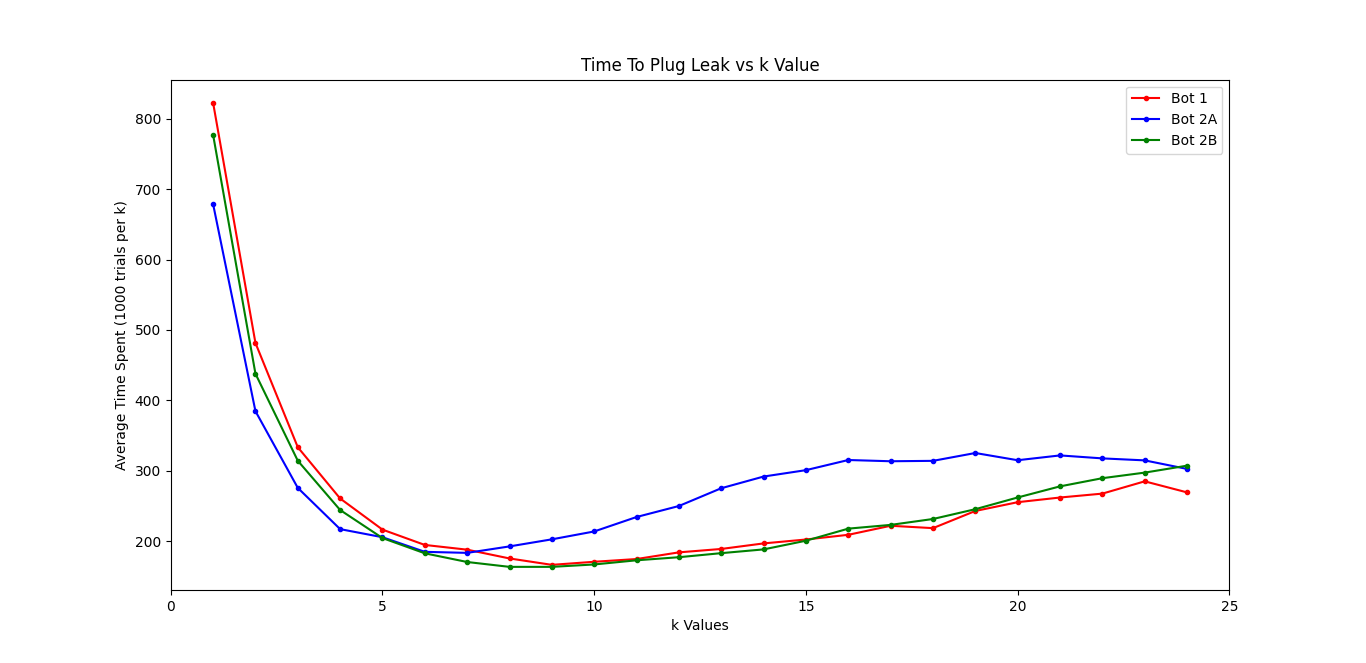
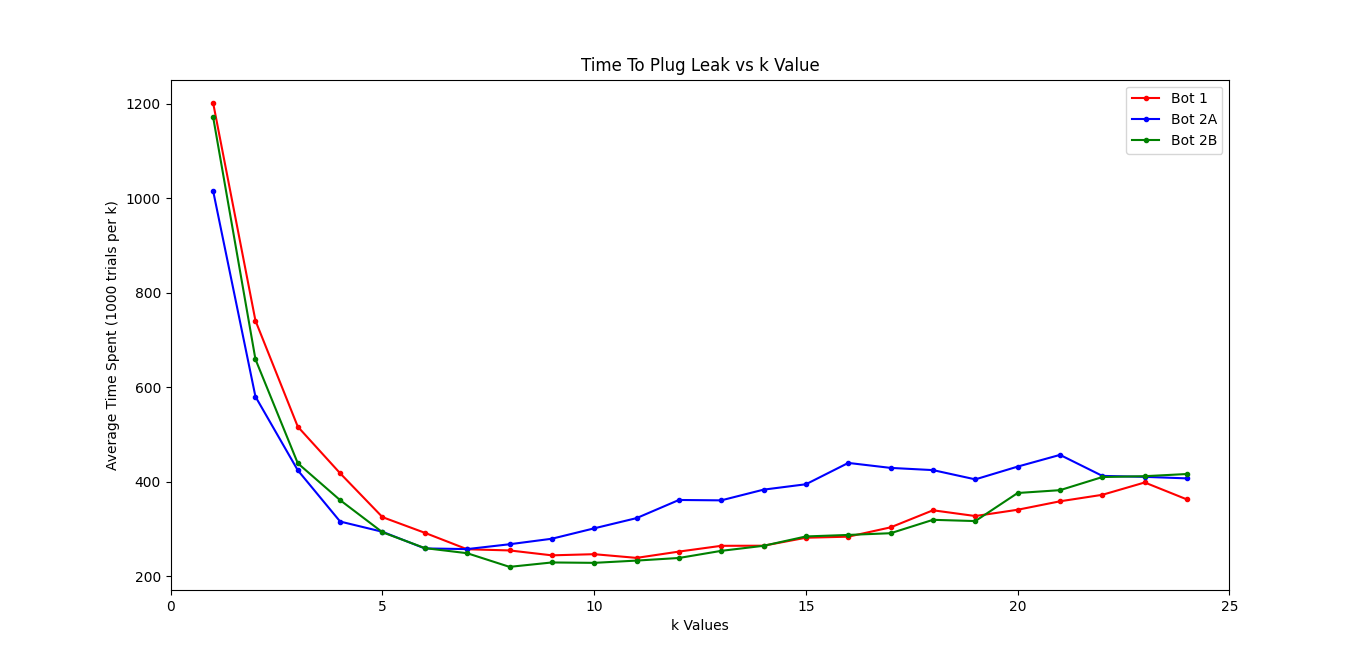
done till bot 5

diff --git a/Ship_Leak_Bot/data.py b/Ship_Leak_Bot/data.py
@@ -1,18 +1,24 @@
 import matplotlib.pyplot as plt
 
 k = [1, 2, 3, 4, 5, 6, 7, 8, 9, 10, 11, 12, 13, 14, 15, 16, 17, 18, 19, 20, 21, 22, 23, 24]
-# bot 1 (1000 trials)
-bot_1 = [822.757, 481.579, 333.466, 260.652, 216.405, 194.645, 187.924, 175.456, 166.381, 170.734, 174.633, 184.112,
-         188.95, 196.826, 202.362, 209.054, 221.891, 218.504, 242.906, 255.375, 262.015, 267.556, 285.004, 269.298]
-# bot 2A (1000 trials)
-bot_2A = [678.824, 384.7, 275.705, 217.113, 205.616, 184.854, 183.379, 192.574, 202.611, 213.805, 234.327, 249.958,
-          275.203, 291.806, 300.895, 315.295, 313.529, 314.102, 325.239, 314.988, 321.813, 317.6, 314.773, 302.628]
+# bot 1 (400 trials)
+bot_1 = [1202.34, 741.31, 516.82, 418.245, 325.4175, 292.2625, 257.4075, 254.975, 244.5675, 247.005, 239.19, 252.5,
+         264.7275, 264.97, 281.8275, 284.0625, 303.8225, 339.9175, 327.735, 341.0525, 358.94, 372.68, 398.7625,
+         362.8075]
+# bot 2A (400 trials)
+bot_2A = [1016.1375, 580.5225, 424.5875, 316.1025, 294.41, 259.1975, 257.795, 268.025, 279.7075, 301.7225, 323.3375,
+          361.7275, 360.9375, 383.61, 395.015, 440.1625, 429.615, 424.95, 405.3475, 432.3625, 457.1675, 412.7,
+          410.6975, 407.425]
 # bot 2B (1000 trials)
-bot_2B = [777.277, 437.939, 314.26, 244.281, 204.419, 182.763, 170.414, 163.508, 163.515, 166.93, 172.836, 177.225,
-          182.982, 188.322, 200.647, 217.813, 223.127, 231.511, 245.417, 262.06, 277.851, 289.468, 297.386, 307.263]
+bot_2B = [1172.58, 659.5575, 439.42, 361.365, 293.395, 259.905, 249.06, 220.18, 229.495, 228.6675, 233.4675, 238.9725,
+          254.0875, 264.775, 284.55, 287.755, 291.39, 319.735, 317.11, 376.505, 382.49, 410.27, 412.06, 416.69]
 # bot 2C (1000 trials)
-bot_2C = [680.598, 384.371, 280.197, 224.552, 200.658, 187.394, 169.148, 164.817, 162.795, 162.872, 169.095, 173.793,
-          183.787, 192.292, 205.603, 223.113, 223.237, 244.178, 250.876, 261.084, 280.824, 291.486, 293.989, 290.224]
+bot_2C = [1079.535, 600.05, 423.87, 351.795, 297.7575, 270.485, 250.61, 238.3775, 232.1225, 236.3025, 230.3075, 225.13,
+          260.245, 272.0275, 282.4975, 299.88, 298.3625, 308.775, 328.3525, 358.91, 364.72, 399.0725, 397.425, 403.975]
+# bot 5 (400 trials)
+bot_5 = [1514.6225, 953.7225, 706.9975, 558.475, 500.4475, 466.22, 456.4025, 466.305, 475.3025, 503.3625, 556.385,
+         601.1625, 625.875, 691.5125, 726.5425, 774.285, 798.34, 839.125, 907.085, 912.2425, 968.1475, 965.0125, 986.81,
+         915.1575]
 
 alpha = [0.01,0.02,0.03,0.04,0.05,0.06,0.07,0.08,0.09,0.1,0.11,0.12,0.13,0.14,0.15,0.16,0.17,0.18,0.19,0.2,0.21,0.22,
          0.23,0.24,0.25,0.26,0.27,0.28,0.29,0.3,0.31,0.32,0.33,0.34,0.35,0.36,0.37,0.38,0.39,0.4,0.41,0.42,0.43,0.44,

diff --git a/Ship_Leak_Bot/main.py b/Ship_Leak_Bot/main.py
@@ -72,7 +72,7 @@ def test_bot2B(dim: int, k: int) -> float:
 
 
 def test_bot2C(dim: int, k: int) -> float:
-    if k < 5:
+    if k <= 6:
         return test_bot2A(dim, k)
     return test_bot2B(dim, k)
 
@@ -135,7 +135,6 @@ def find_first_bot(s: ship_56.Ship) -> None:
                 s.possible_loc.remove(loc)
             except KeyError:
                 pass
-
             s.total_time += 1
             if loc in s.leak_loc:
                 s.leak_loc.remove(loc)
@@ -174,20 +173,25 @@ def find_second_bot(s: ship_56.Ship) -> None:
                 pass
         s.bot_loc = path[-1]
         s.scan_box_leak(s.bot_loc[0],s.bot_loc[1])
-    print(s)
+    s.found = False
+    s.known_loc.remove(s.bot_loc)
+    while not s.found:
+        cc = s.get_closest_val_in_set(s.known_loc)
+        path = s.A_start_path(s.bot_loc,cc)
+        s.total_time += len(path)
+        s.bot_loc = path[-1]
+        if s.bot_loc in s.leak_loc:
+            return
+        s.known_loc.remove(s.bot_loc)
 
 
 def test_bot5(dim: int, k: int) -> float:
     s = ship_56.Ship(dim, BOT_5, k)
-    print(s)
     find_first_bot(s)
-    print(s)
-    print(s.possible_loc)
-    print(s.bot_loc)
-    print(s.leak_loc)
     if not s.leak_loc:
         return s.total_time
     find_second_bot(s)
+    return s.total_time
 
 
 def k_tester(trial_count, bot):
@@ -195,12 +199,14 @@ def k_tester(trial_count, bot):
     for k in range(1, 25):  # k values from 1 to 24 (largest range for 50x50 ship)
         t = 0
         ts = 0
-        for i in range(trial_count):  # 1000 trials per k value
+        for i in range(trial_count):  # trials per k value
             t += 1
             if bot == BOT_1:
                 ts += test_bot1(50, k)
             elif bot == BOT_2:
                 ts += test_bot2C(50, k)  # change test function to test different versions of bot 2
+            elif bot == BOT_5:
+                ts += test_bot5(50,k)
             if i % 50 == 0:
                 print("k:", k, "i:", i, " time:", ts / t)
         output.append(ts / t)
@@ -223,5 +229,4 @@ def alpha_tester(trial_count, bot):
 
 
 if __name__ == '__main__':
-    for i in range(1):
-        print(test_bot5(5,1))
+    k_tester(400, BOT_2)

diff --git a/Ship_Leak_Bot/ship_56.py b/Ship_Leak_Bot/ship_56.py
@@ -406,7 +406,7 @@ class Ship:
             neighbors = [(i + 1, j), (i - 1, j), (i, j + 1), (i, j - 1)]
             for neighbor in neighbors:
                 ni, nj = neighbor
-                if self.on_ship(ni, nj) and neighbor not in visited and self.layout[i][j] != WALL:
+                if self.on_ship(ni, nj) and neighbor not in visited and self.layout[ni][nj] != WALL:
                     new = [curr_dist + 1, get_distance(neighbor[0], neighbor[1], ei, ej),
                            neighbor, curr]
                     existing = key.get(neighbor, None)
